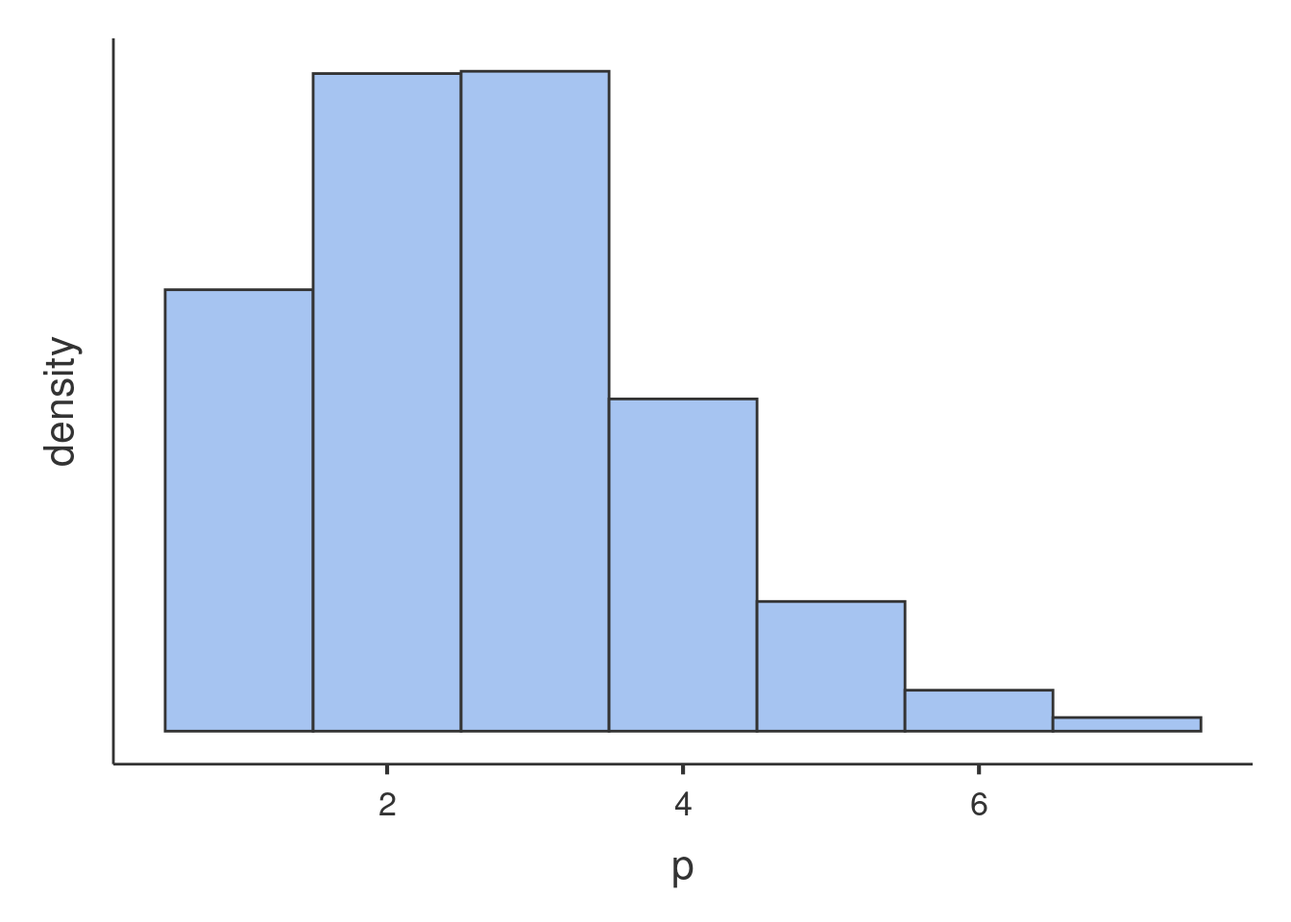
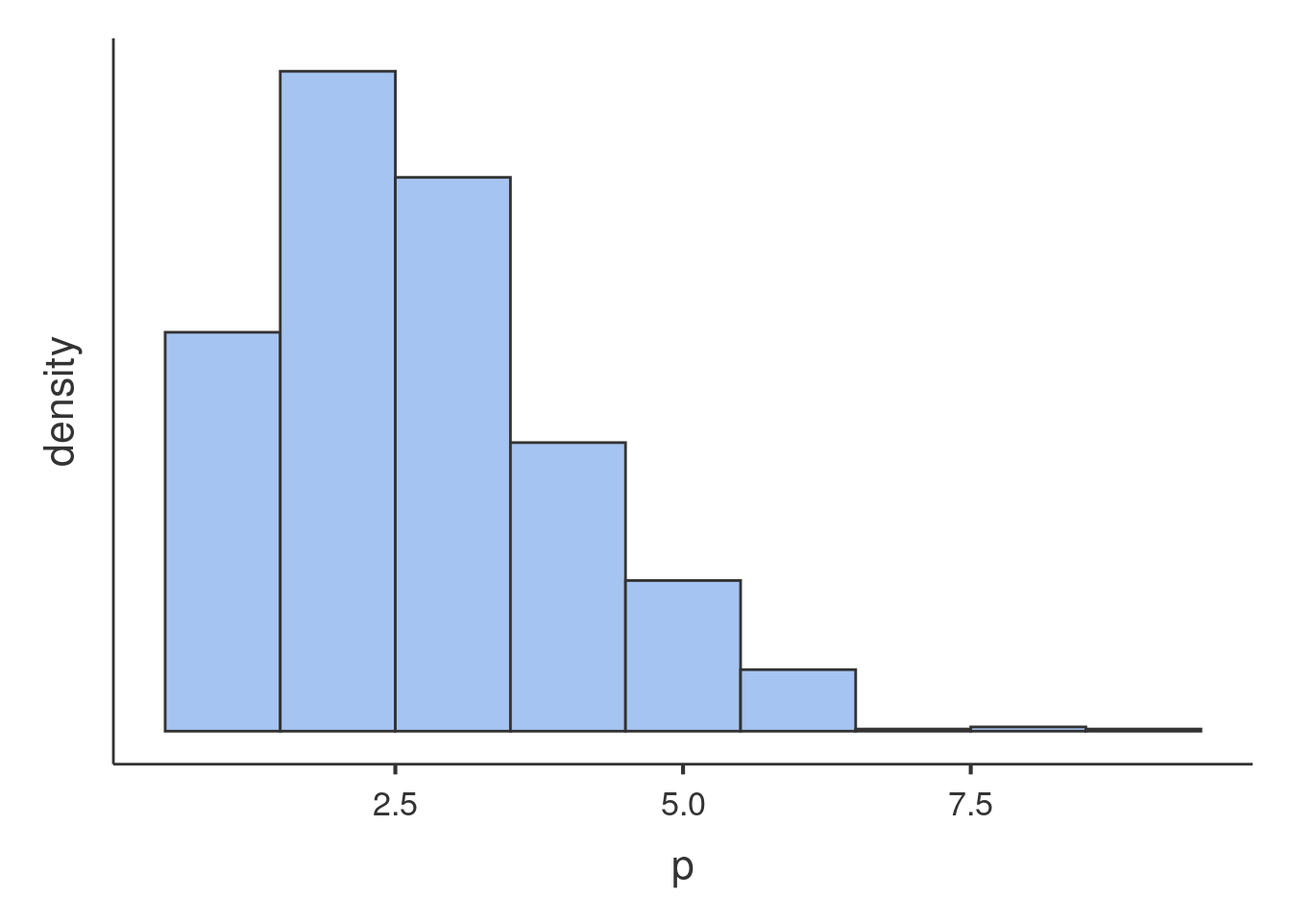
updates

diff --git a/vignettes_gamljGLM.html b/vignettes_gamljGLM.html
@@ -382,6 +382,257 @@ div.tocify {
 <pre class="r"><code>library(gamlj)</code></pre>
 <div id="linear-models-in-gamlj" class="section level1">
 <h1>Linear models in GAMLj</h1>
+<p>In this example we run a moderated regression analysis with simple slopes analysis and simple slopes graphs. Data are from <a href="http://psycnet.apa.org/record/2002-18109-000">Cohen et al 2003</a> and can be downloaded <a href="https://github.com/mcfanda/gamlj_docs/blob/master/data/exercise.csv">here</a>.</p>
+</div>
+<div id="the-research-design" class="section level1">
+<h1>The research design</h1>
+<p>The research is about physical endurance associated with age and physical exercise. 245 participants were measured while jogging on a treadmill. Endurance was measured in minutes (‘yendu’ in the file). Participants’ age (<code>xage</code> in years) and number of years of physical exercise (<code>zexer</code> in years) were recorded as well</p>
+<pre class="r"><code>data&lt;-read.csv(&quot;https://raw.githubusercontent.com/mcfanda/gamlj_docs/master/data/exercise.csv&quot;)
+summary(data[,c(&quot;xage&quot;,&quot;zexer&quot;,&quot;yendu&quot;)])</code></pre>
+<pre><code>      xage          zexer          yendu     
+ Min.   :20.0   Min.   : 0.0   Min.   : 0.0  
+ 1st Qu.:43.0   1st Qu.: 7.0   1st Qu.:19.0  
+ Median :48.0   Median :11.0   Median :27.0  
+ Mean   :49.2   Mean   :10.7   Mean   :26.5  
+ 3rd Qu.:56.0   3rd Qu.:14.0   3rd Qu.:33.0  
+ Max.   :82.0   Max.   :26.0   Max.   :55.0  </code></pre>
+<p>The researcher is interested in studying the relationships between endurance, age, and exercising, with the hypothesis that the effect of age (expected to be negative) is moderated by exercise, such that the more participants work out (higher levels of <code>exer</code>) the less age negatively affects endurance.</p>
+</div>
+<div id="understanding-the-problem" class="section level1">
+<h1>Understanding the problem</h1>
+<p>We can think about this analytic problem as a multiple regression, where the effect of age and exercise can be estimated while keeping constant the other variable. However, the researcher puts forward a <em>moderation hypothesis</em>, because s/he expects the effect of age to change for different levels of exercising. We than need an interaction between age and exercise.</p>
+<p>We first run a multiple regression (to warm up), then we estimate a multiple regression with an interaction (moderated regression) and we probe the interaction with a simple slope analysis and simple slope graphs. Technical details can be found in <a href="http://psycnet.apa.org/record/2002-18109-000">Cohen et al 2003</a>, or in <a href="http://quantpsy.org/interact/interactions.htm">Preacher website</a>.</p>
+</div>
+<div id="multiple-regression" class="section level1">
+<h1>Multiple regression</h1>
+<p>GAMLj GML function minimum setup only requires to specify the formula of the model and the dataframe. The formula interface is the same one uses in <code>lm()</code> function.</p>
+<pre class="r"><code>mod1&lt;-gamljGLM(formula = yendu~xage+zexer, data=data)
+mod1</code></pre>
+<pre><code>
+ GENERAL LINEAR MODEL
+
+ Model Info                                     
+ ────────────────────────────────────────────── 
+   Info                                         
+ ────────────────────────────────────────────── 
+   Estimate          Linear model fit by OLS    
+   Call              yendu ~ 1 + xage + zexer   
+   R-squared                            0.166   
+   Adj. R-squared                       0.159   
+ ────────────────────────────────────────────── 
+
+
+ MODEL RESULTS
+
+ ANOVA Omnibus tests                                       
+ ───────────────────────────────────────────────────────── 
+                SS        df     F       p         η²p     
+ ───────────────────────────────────────────────────────── 
+   Model          5814      2    24.1    &lt; .001    0.166   
+   xage           1516      1    15.4    &lt; .001    0.019   
+   zexer          4298      1    43.7    &lt; .001    0.153   
+   Residuals     23810    242                              
+   Total        202073    245                              
+ ───────────────────────────────────────────────────────── 
+
+
+ Fixed Effects Parameter Estimates                                                             
+ ───────────────────────────────────────────────────────────────────────────────────────────── 
+   Names          Estimate    SE        Lower     Upper     β         df     t        p        
+ ───────────────────────────────────────────────────────────────────────────────────────────── 
+   (Intercept)      26.531    0.6337    25.282    27.779     0.000    242    41.87    &lt; .001   
+   xage             -0.257    0.0655    -0.386    -0.128    -0.240    242    -3.93    &lt; .001   
+   zexer             0.916    0.1386     0.643     1.189     0.404    242     6.61    &lt; .001   
+ ───────────────────────────────────────────────────────────────────────────────────────────── </code></pre>
+<p>The object `mod’ is an R6 object which contains all the results tables and some additional function that can be used in subsequent analyses. Tables are pretty printed, but they can be modified or manipulated by trasforming them in dataframes as follows:</p>
+<pre class="r"><code>anofaDF&lt;-mod1$main$anova$asDF
+anofaDF</code></pre>
+<pre><code>       name     ss  df    f        p etaSqP
+1     Model   5814   2 24.1 2.75e-10 0.1663
+2      xage   1516   1 15.4 1.13e-04 0.0186
+3     zexer   4298   1 43.7 2.44e-10 0.1529
+4 Residuals  23810 242   NA       NA     NA
+5     Total 202073 245   NA       NA     NA</code></pre>
+<div id="results" class="section level2">
+<h2>Results</h2>
+<p>Results show three tables. Table info contains information about the overall model. The Anova omnibus tests table contains the results of the <code>car:Anova()</code> function, with the addition of the partial <span class="math inline">\(\eta^2\)</span> index for each effect and the inferential test for the whole model. The <code>Fixed effect parameter estimates</code> table contains the <code>summary()</code> results. For each coefficient the confidence interval is also reported.</p>
+<p>A special note should be made for the intercept. The intercept is the expected value (the mean) of the dependent variable, estimated for all independent variables equal to their means. This is because in gamljGLM(), continuous variables are centered to their mean by default. In case one wants the independent variables not to be centered, one can select a different scaling with the option <code>scaling</code>.</p>
+<p>Additional effect size indexes can be asked with the option <code>effectSize</code>.</p>
+<pre class="r"><code>mod2&lt;-gamljGLM(formula = yendu~xage+zexer, 
+              data=data,
+              effectSize = c(&quot;beta&quot;, &quot;eta&quot;,&quot;partEta&quot;,&quot;omega&quot;,&quot;epsilon&quot;))
+mod2$main$anova</code></pre>
+<pre><code>
+ ANOVA Omnibus tests                                                                   
+ ───────────────────────────────────────────────────────────────────────────────────── 
+                SS        df     F       p         η²        η²p      ω²p      ε²p     
+ ───────────────────────────────────────────────────────────────────────────────────── 
+   Model          5814      2    24.1    &lt; .001    0.1663    0.166    0.159    0.159   
+   xage           1516      1    15.4    &lt; .001    0.0158    0.019    0.014    0.015   
+   zexer          4298      1    43.7    &lt; .001    0.1505    0.153    0.148    0.149   
+   Residuals     23810    242                                                          
+   Total        202073    245                                                          
+ ───────────────────────────────────────────────────────────────────────────────────── </code></pre>
+<p>The same analysis can be done by updating the model with the <code>gamlj_update()</code> function. Almost all the options available in <code>gamljGLM()</code> can be added to a model by running <code>gamlj_update(mod,...)</code> where <code>...</code> is any option or options accepted by <code>gamlj_update()</code>.</p>
+<pre class="r"><code>mod2_2&lt;-gamlj_update(mod1,effectSize = c(&quot;beta&quot;, &quot;eta&quot;,&quot;partEta&quot;,&quot;omega&quot;,&quot;epsilon&quot;))
+mod2_2$main$anova</code></pre>
+<pre><code>
+ ANOVA Omnibus tests                                                                   
+ ───────────────────────────────────────────────────────────────────────────────────── 
+                SS        df     F       p         η²        η²p      ω²p      ε²p     
+ ───────────────────────────────────────────────────────────────────────────────────── 
+   Model          5814      2    24.1    &lt; .001    0.1663    0.166    0.159    0.159   
+   xage           1516      1    15.4    &lt; .001    0.0158    0.019    0.014    0.015   
+   zexer          4298      1    43.7    &lt; .001    0.1505    0.153    0.148    0.149   
+   Residuals     23810    242                                                          
+   Total        202073    245                                                          
+ ───────────────────────────────────────────────────────────────────────────────────── </code></pre>
+</div>
+</div>
+<div id="moderated-regression" class="section level1">
+<h1>Moderated regression</h1>
+<p>To include the interaction we simply add the interaction effect in the formula.</p>
+<pre class="r"><code>mod3&lt;-gamljGLM(formula = yendu~xage*zexer, data=data)
+mod3</code></pre>
+<pre><code>
+ GENERAL LINEAR MODEL
+
+ Model Info                                                  
+ ─────────────────────────────────────────────────────────── 
+   Info                                                      
+ ─────────────────────────────────────────────────────────── 
+   Estimate          Linear model fit by OLS                 
+   Call              yendu ~ 1 + xage + zexer + xage:zexer   
+   R-squared                                         0.206   
+   Adj. R-squared                                    0.196   
+ ─────────────────────────────────────────────────────────── 
+
+
+ MODEL RESULTS
+
+ ANOVA Omnibus tests                                        
+ ────────────────────────────────────────────────────────── 
+                 SS        df     F       p         η²p     
+ ────────────────────────────────────────────────────────── 
+   Model           7482      3    20.9    &lt; .001    0.206   
+   xage            1570      1    16.7    &lt; .001    0.020   
+   zexer           4775      1    50.8    &lt; .001    0.159   
+   xage:zexer      1137      1    12.1    &lt; .001    0.048   
+   Residuals      22674    241                              
+   Total         180966    245                              
+ ────────────────────────────────────────────────────────── 
+
+
+ Fixed Effects Parameter Estimates                                                               
+ ─────────────────────────────────────────────────────────────────────────────────────────────── 
+   Names          Estimate    SE        Lower      Upper      β         df     t        p        
+ ─────────────────────────────────────────────────────────────────────────────────────────────── 
+   (Intercept)     25.8887    0.6466    24.6150    27.1625     0.000    241    40.04    &lt; .001   
+   xage            -0.2617    0.0641    -0.3879    -0.1355    -0.244    241    -4.08    &lt; .001   
+   zexer            0.9727    0.1365     0.7038     1.2417     0.429    241     7.12    &lt; .001   
+   xage:zexer       0.0472    0.0136     0.0205     0.0740     0.211    241     3.48    &lt; .001   
+ ─────────────────────────────────────────────────────────────────────────────────────────────── </code></pre>
+<div id="results-1" class="section level2">
+<h2>Results</h2>
+<p>Because variables are centered to their means, the first-order coefficients can be interpreted as “average” effects. One can also report the betas (last column in the <code>Model Coefficients</code> table). The estimates of the betas are correct also in the presence of the interaction, because the variables are standardized before the interaction term is computed.</p>
+</div>
+<div id="simple-slopes" class="section level2">
+<h2>Simple Slopes</h2>
+<p>We can now probe the interaction. One can re-run the model adding the appropriate options to ask for simple effects or one can use the <code>gamlj_simpleffects()</code> function, which is a convenience function to add simple effects to a pre-existing model. The function <code>gamlj_simpleffects()</code>, however, only returns the simple effects tables, not the full model.</p>
+<pre class="r"><code>#mod4&lt;-gamljGLM(formula = yendu~xage*zexer,
+#               data=data,
+#               simpleVariable = &quot;xage&quot;,
+#               simpleModerator = &quot;zexer&quot;)
+### equivalent results :
+gamlj_simpleEffects(mod3,variable = &quot;xage&quot;,moderator = &quot;zexer&quot;)</code></pre>
+<pre><code>
+ SIMPLE EFFECTS
+
+ Simple effects of xage : Omnibus Tests                         
+ ────────────────────────────────────────────────────────────── 
+   zexer        F         Num df    Den df    p         η²p     
+ ────────────────────────────────────────────────────────────── 
+   Mean-1·SD    27.972      1.00       241    &lt; .001    0.104   
+        Mean    16.686      1.00       241    &lt; .001    0.065   
+   Mean+1·SD     0.160      1.00       241     0.690    0.001   
+ ────────────────────────────────────────────────────────────── 
+
+
+ Simple effects of xage : Parameter estimates                                       
+ ────────────────────────────────────────────────────────────────────────────────── 
+   zexer        Estimate    SE        Lower     Upper     df     t         p        
+ ────────────────────────────────────────────────────────────────────────────────── 
+   Mean-1·SD     -0.4873    0.0921    -0.669    -0.306    241    -5.289    &lt; .001   
+        Mean     -0.2617    0.0641    -0.388    -0.135    241    -4.085    &lt; .001   
+   Mean+1·SD     -0.0361    0.0903    -0.214     0.142    241    -0.400     0.690   
+ ────────────────────────────────────────────────────────────────────────────────── </code></pre>
+<p>In this way we obtain the effect of age computed for high exercise (<code>zexer</code> centered to 1 SD above average), the main effect of age (<code>zexer</code> centered to its mean) and the effect of age computed for low exercise (<code>zexer</code> centered to -1 SD above average). <code>gamlGLM()</code> produces both the F-tests and the parameter estimates for the simple slopes. We focus on the latter table now.</p>
+<p>One can change the conditioning levels of the moderators with the <code>simpleScale</code> option (defaul is <code>mean_sd</code> for mean plus/minus one SD), either added to the <code>gamljGLM()</code> function or to the <code>gamlj_simpleEffects()</code> function. If one wants to use the percentiles (25%,50%,75%), for instance, one can run the following.</p>
+<pre class="r"><code>gamlj_simpleEffects(mod3,variable = &quot;xage&quot;,moderator = &quot;zexer&quot;,simpleScale=&quot;percent&quot;)</code></pre>
+<pre><code>
+ SIMPLE EFFECTS
+
+ Simple effects of xage : Omnibus Tests                    
+ ───────────────────────────────────────────────────────── 
+   zexer    F        Num df    Den df    p         η²p     
+ ───────────────────────────────────────────────────────── 
+     25%    28.15      1.00       241    &lt; .001    0.105   
+     50%    14.74      1.00       241    &lt; .001    0.058   
+     75%     1.81      1.00       241     0.180    0.007   
+ ───────────────────────────────────────────────────────── 
+
+
+ Simple effects of xage : Parameter estimates                                   
+ ────────────────────────────────────────────────────────────────────────────── 
+   zexer    Estimate    SE        Lower     Upper      df     t        p        
+ ────────────────────────────────────────────────────────────────────────────── 
+     25%      -0.435    0.0820    -0.597    -0.2736    241    -5.31    &lt; .001   
+     50%      -0.246    0.0641    -0.373    -0.1199    241    -3.84    &lt; .001   
+     75%      -0.105    0.0777    -0.257     0.0485    241    -1.35     0.180   
+ ────────────────────────────────────────────────────────────────────────────── </code></pre>
+<p>The simple effects are now changed, because they are estimated for a different set of values of the moderator.</p>
+<p>One can further tweak the appearance of the tables by selecting a different value/labels in <code>simpleScaleLabels</code> option. Options are “labels”, “values” and “values_labels”. The latter output the values and the labels of the conditioning values.</p>
+<pre class="r"><code>gamlj_simpleEffects(mod3,variable = &quot;xage&quot;,moderator = &quot;zexer&quot;,
+                    simpleScale=&quot;percent&quot;, 
+                    simpleScaleLabels=&quot;values_labels&quot;)</code></pre>
+<pre><code>
+ SIMPLE EFFECTS
+
+ Simple effects of xage : Omnibus Tests                         
+ ────────────────────────────────────────────────────────────── 
+   zexer         F        Num df    Den df    p         η²p     
+ ────────────────────────────────────────────────────────────── 
+   25%=-3.673    28.15      1.00       241    &lt; .001    0.105   
+    50%=0.327    14.74      1.00       241    &lt; .001    0.058   
+    75%=3.327     1.81      1.00       241     0.180    0.007   
+ ────────────────────────────────────────────────────────────── 
+
+
+ Simple effects of xage : Parameter estimates                                        
+ ─────────────────────────────────────────────────────────────────────────────────── 
+   zexer         Estimate    SE        Lower     Upper      df     t        p        
+ ─────────────────────────────────────────────────────────────────────────────────── 
+   25%=-3.673      -0.435    0.0820    -0.597    -0.2736    241    -5.31    &lt; .001   
+    50%=0.327      -0.246    0.0641    -0.373    -0.1199    241    -3.84    &lt; .001   
+    75%=3.327      -0.105    0.0777    -0.257     0.0485    241    -1.35     0.180   
+ ─────────────────────────────────────────────────────────────────────────────────── </code></pre>
+</div>
+<div id="simple-slopes-plot" class="section level2">
+<h2>Simple Slopes Plot</h2>
+<p>We can get a clear picture of the interaction by asking for a plot. Also the plot module takes care of centering the variables in a way that makes the plot clearly understandable.</p>
+<p>The options needed in <code>gamljGLM()</code> are <code>plotHAxis</code> for the x-axis variable and <code>plotSepLines</code> for the moderator. At which three levels of the moderator the separate lines are computed is decided by the option <code>simpleScale</code> as for the simple effects.</p>
+<pre class="r"><code>mod4&lt;-gamljGLM(formula = yendu~xage*zexer, data=data, 
+               plotHAxis = &quot;xage&quot;,plotSepLines = &quot;zexer&quot;,plotError = &quot;ci&quot;)
+mod4$descPlot</code></pre>
+<p><img src="vignettes_gamljGLM_files/figure-html/unnamed-chunk-11-1.png" width="576" style="display: block; margin: auto;" /></p>
+<p>The nice plot we get shows the simple effects (simple equations to be precise) with the prediction confidence intervals indicated by the colored shades around the lines. If needed, the confidence intervals can be substituted with the standard errors of the estimates or they can be removed completely.</p>
+<p>Finally, in order to give a more honest account of the model fit, we can visualize the simple slopes over the the actual data.</p>
+<pre class="r"><code>mod4&lt;-gamljGLM(formula = yendu~xage*zexer, data=data, 
+               plotHAxis = &quot;xage&quot;,plotSepLines = &quot;zexer&quot;,plotError = &quot;ci&quot;,plotRaw = TRUE)
+mod4$descPlot</code></pre>
+<p><img src="vignettes_gamljGLM_files/figure-html/unnamed-chunk-12-1.png" width="576" style="display: block; margin: auto;" /></p>
+<p><a href="#linear-models-in-gamlj">back to top</a></p>
+</div>
 </div>
 
 

diff --git a/glmmixed_example2.html b/glmmixed_example2.html
@@ -392,7 +392,7 @@ div.tocify {
 <p><img src="glmmixed_example2_files/figure-html/unnamed-chunk-2-1.png" width="672" /></p>
 <p>Glancing at the histogram makes it clear that the distribution is not normal, but it roughly resembles the Poisson distribution. Here is an example of Poisson distribution with equivalent mean.</p>
 <p><img src="glmmixed_example2_files/figure-html/unnamed-chunk-3-1.png" width="672" /></p>
-<p>We can see that the shape of our distribution is not qualitatively very different as compared with a theoretical Poisson distribution, so a Generalized Linear Model with Poisson distribition may work. However, we can check wheather our distribution is in line with the features of the Poisson dist by checking its mean and variance. The Poisson distribution has variance equal to the mean, in fact the simulated distribution in the histogram has <span class="math inline">\(\bar{x}=1.661\)</span> and <span class="math inline">\(s^2=1.584\)</span>. The <code>art</code> variable distribution has <span class="math inline">\(\bar{x}=1.693\)</span> and <span class="math inline">\(s^2=3.71\)</span>, with a ratio variance/mean of 2.191, which does not really qualify for Poisson dist. This looks like a case of <strong>overdispersion</strong>, <a href="http://bbolker.github.io/mixedmodels-misc/glmmFAQ.html#overdispersion">cf. here for details</a>. We will than consider a Negative Binomial model to account for possible overdispersion.</p>
+<p>We can see that the shape of our distribution is not qualitatively very different as compared with a theoretical Poisson distribution, so a Generalized Linear Model with Poisson distribition may work. However, we can check wheather our distribution is in line with the features of the Poisson dist by checking its mean and variance. The Poisson distribution has variance equal to the mean, in fact the simulated distribution in the histogram has <span class="math inline">\(\bar{x}=1.698\)</span> and <span class="math inline">\(s^2=1.757\)</span>. The <code>art</code> variable distribution has <span class="math inline">\(\bar{x}=1.693\)</span> and <span class="math inline">\(s^2=3.71\)</span>, with a ratio variance/mean of 2.191, which does not really qualify for Poisson dist. This looks like a case of <strong>overdispersion</strong>, <a href="http://bbolker.github.io/mixedmodels-misc/glmmFAQ.html#overdispersion">cf. here for details</a>. We will than consider a Negative Binomial model to account for possible overdispersion.</p>
 <p>An example of Negative Binomial distribution with equivalent mean and variance is here.</p>
 <p><img src="glmmixed_example2_files/figure-html/unnamed-chunk-4-1.png" width="672" /></p>
 <p>The second issue one needs to deal with is the structure of the data. We have seen that the students are not a random sample of students drawn independently one each other, but they are grouped by the program they are enrolled in. There are 83 programs, in each program there are on average 11 students. Because students in the same program may be more similar one each other than across programs, <code>programs</code> may cluster the scores of the dependent variable and create dependency in the data. To take dependency into the account, we will use a random intercepts model estimated with a Generalized Mixed Model.</p>

diff --git a/rosetta_contrasts.html b/rosetta_contrasts.html
@@ -479,13 +479,8 @@ summary(model)</code></pre>
 <h2>R emmeans</h2>
 <p>To employ <code>emmeans</code> package, we first estimate the model (which conding we use does not matter), then we run the function <code>emm&lt;-emmeans(model,specs)</code>, where <code>specs</code> is the factor for which we want to compare the means, and then we apply <code>contrast(emm,contrast_type)</code> to the emmeans object. <code>contrast_type</code> is a string equal to the contrast function we want to use. We add <code>adjust=&quot;none&quot;</code> to obtain the same p-values as in the previous analyses, but any adjustment supported by <code>emmeans</code> can be applied here. If we omit the <code>adjust</code> option, the default multiplicity adjustment method is “fdr” , cf. <a href="https://www.google.it/url?sa=t&amp;rct=j&amp;q=&amp;esrc=s&amp;source=web&amp;cd=1&amp;ved=0ahUKEwjqpImqvYLYAhVQpKQKHTcMBtUQFggqMAA&amp;url=https%3A%2F%2Fcran.r-project.org%2Fweb%2Fpackages%2Femmeans%2Femmeans.pdf&amp;usg=AOvVaw1kHsWAafZ1Rhf3b-f7uruS">emmeans package</a>.</p>
 <p>The <code>deviation</code> contrast it is named <code>eff</code> in emmeans.</p>
-<pre class="r"><code>library(emmeans)</code></pre>
-<pre><code>## 
-## Attaching package: &#39;emmeans&#39;</code></pre>
-<pre><code>## The following object is masked _by_ &#39;.GlobalEnv&#39;:
-## 
-##     test</code></pre>
-<pre class="r"><code>model&lt;-lm(Score~Group,data=dat)
+<pre class="r"><code>library(emmeans)
+model&lt;-lm(Score~Group,data=dat)
 emm&lt;-emmeans(model,~Group)
 contrast(emm,&quot;eff&quot;,reverse=T,adjust = &quot;none&quot;)</code></pre>
 <pre><code>##  contrast estimate     SE  df t.ratio p.value
@@ -613,13 +608,8 @@ contrast(emm,&quot;dunnett&quot;,adjust = &quot;none&quot;)</code></pre>
 <div id="r-2" class="section level2">
 <h2>R</h2>
 <p>R does not have an out-of-the-box contrast equivalent to <code>repeated</code> contrast. One can, howerver, uses the <code>contr.sdif()</code> function in <code>MASS</code> package. As compared with jamovi and SPSS the comparisons are in the opposite direction, so we simply multiply the code by -1 (t-tests and p-values do not depend on this):</p>
-<pre class="r"><code>library(MASS)</code></pre>
-<pre><code>## 
-## Attaching package: &#39;MASS&#39;</code></pre>
-<pre><code>## The following object is masked from &#39;package:Rsearchable&#39;:
-## 
-##     select</code></pre>
-<pre class="r"><code>repeated&lt;-(-1)*contr.sdif(4) 
+<pre class="r"><code>library(MASS)
+repeated&lt;-(-1)*contr.sdif(4) 
 repeated</code></pre>
 <pre><code>##     2-1  3-2   4-3
 ## 1  0.75  0.5  0.25
